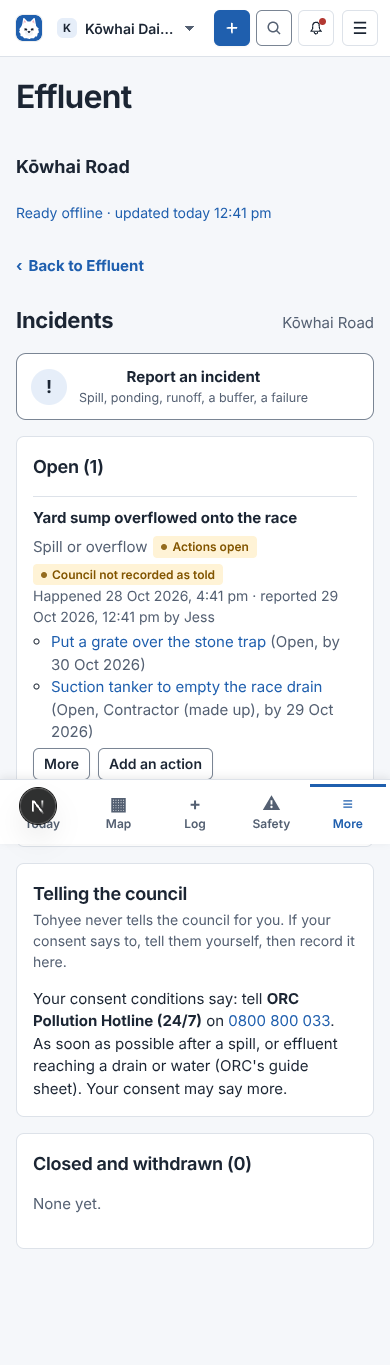
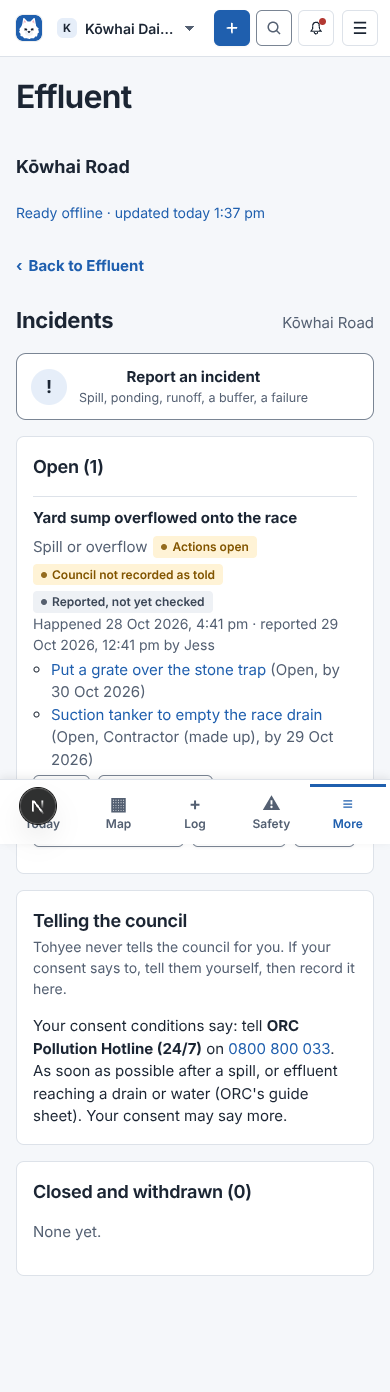
Effluent: records that say what's known (#491 for #487)
Incidents get "Checked it" (a bookkeeper or above, in person) kept beside the
reporter's account; the depth from settings is labelled an estimate and
positions phone GPS estimates, never a finding that effluent reached a
buffer; the council pack's summary starts with its scope and the count of
corrected and withdrawn records, and says the hashes don't show contents
are true or make records privileged; a fault report says Tohyee doesn't
message anyone. Decision 1099(e).

Claude-Session: https://claude.ai/code/session_01YaYVajMmm1vgDV4HpVCV6D

diff --git a/src/components/farm-effluent-care.tsx b/src/components/farm-effluent-care.tsx
@@ -176,7 +176,7 @@ function FaultForm({ organisationId, farm, system, onDone, onCancel }: Ctx & { s
         setError(null);
         try {
           const outcome = await submitThroughQueue(queue, { operationId, kind: "effluent.fault", label: `Fault: ${system.data.name}`, farmId: farm.id, farmName: farm.name, request: { method: "POST", path: "/api/farming/effluent/faults", body: { farmId: farm.id, systemId: system.recordId, what, outOfUse, files: photos.map((photo) => ({ id: photo.id })) }, refs: waitForFiles(photos, ["files"]) } });
-          onDone(`${outcomeText(outcome.state)}${outOfUse ? ` ${system.data.name} is out of use until it's released in Safety.` : ""}`);
+          onDone(`${outcomeText(outcome.state)}${outOfUse ? ` ${system.data.name} is out of use until it's released in Safety.` : ""} Tohyee doesn't message anyone: the action shows in Tohyee for whoever looks after it.`);
         } catch (caught) {
           setError(`Not saved: ${errorMessage(caught)}`);
         } finally {
@@ -508,7 +508,7 @@ const STATE_TONE: Record<IncidentView["state"], "neutral" | "amber" | "green"> =
 const STATE_LABEL: Record<IncidentView["state"], string> = { open: "Open", actions: "Actions open", closed: "Closed", withdrawn: "Withdrawn" };
 
 function IncidentRow({ organisationId, farm, incident, canClose, people, onSaved }: Ctx & { incident: IncidentView; canClose: boolean; people: Array<{ userId: string; name: string }>; onSaved: (text: string) => void }) {
-  const [open, setOpen] = useState<"more" | "told" | "close" | "action" | null>(null);
+  const [open, setOpen] = useState<"more" | "told" | "close" | "action" | "check" | null>(null);
   const data = incident.data;
   return (
     <li style={{ borderTop: "1px solid var(--border)", padding: "10px 0" }}>
@@ -518,10 +518,12 @@ function IncidentRow({ organisationId, farm, incident, canClose, people, onSaved
         <Badge tone={STATE_TONE[incident.state]}>{STATE_LABEL[incident.state]}</Badge>
         {data.reachedWater ? <Badge tone="red">Reached water or a drain</Badge> : null}
         {incident.tellCouncil ? <Badge tone="amber">Council not recorded as told</Badge> : null}
+        {incident.state !== "withdrawn" ? incident.checkedOnSite ? <Badge tone="blue">Checked</Badge> : <Badge>Reported, not yet checked</Badge> : null}
       </div>
       <div className={ui.muted} style={{ fontSize: "var(--text-sm)" }}>
         Happened {formatDateTime(data.occurredAt)} · reported {formatDateTime(incident.firstEnteredAt)} by {incident.firstEnteredByName || incident.firstEnteredByEmail}
       </div>
+      {data.checked ? <div>Checked: {data.checked.note}</div> : null}
       {data.councilTold ? (
         <div>
           Council told {formatDate(data.councilTold.on)} {COUNCIL_TOLD_HOW[data.councilTold.how]}
@@ -552,6 +554,11 @@ function IncidentRow({ organisationId, farm, incident, canClose, people, onSaved
                 We told the council
               </Button>
             ) : null}
+            {canClose && !data.checked ? (
+              <Button variant="secondary" size="small" onClick={() => setOpen(open === "check" ? null : "check")}>
+                Checked it
+              </Button>
+            ) : null}
             {canClose ? (
               <Button variant="secondary" size="small" onClick={() => setOpen(open === "close" ? null : "close")}>
                 Close
@@ -570,6 +577,7 @@ function IncidentRow({ organisationId, farm, incident, canClose, people, onSaved
         </div>
       ) : null}
       {open === "told" ? <CouncilToldForm organisationId={organisationId} incident={incident} onDone={() => { setOpen(null); onSaved("Recorded that the council was told."); }} /> : null}
+      {open === "check" ? <CheckedForm organisationId={organisationId} incident={incident} onDone={() => { setOpen(null); onSaved("Recorded what was found."); }} /> : null}
       {open === "close" ? <CloseForm organisationId={organisationId} incident={incident} onDone={() => { setOpen(null); onSaved("Closed."); }} /> : null}
       {open === "action" ? <AddActionForm organisationId={organisationId} incident={incident} people={people} onDone={() => { setOpen(null); onSaved("Action added."); }} /> : null}
     </li>
@@ -624,6 +632,23 @@ function CouncilToldForm({ organisationId, incident, onDone }: { organisationId:
         </Field>
       </div>
       <Button type="submit" disabled={busy}>
+        Save
+      </Button>
+    </form>
+  );
+}
+
+/** What was found when someone looked (#491): kept beside the reporter's account, not instead of it. */
+function CheckedForm({ organisationId, incident, onDone }: { organisationId: string; incident: IncidentView; onDone: () => void }) {
+  const [note, setNote] = useState("");
+  const { busy, error, run } = useRun();
+  return (
+    <form style={FORM} onSubmit={(event) => { event.preventDefault(); void run(() => api(`/api/farming/effluent/incidents/${incident.recordId}`, { method: "PATCH", body: { organisationId, step: "check", expectedVersion: incident.version, note } }), onDone); }}>
+      {error ? <Notice tone="error">{error}</Notice> : null}
+      <Field label="What you found when you checked" hint="The report stays as the reporter wrote it; this is kept beside it.">
+        <textarea rows={2} value={note} required maxLength={2000} onChange={(event) => setNote(event.target.value)} />
+      </Field>
+      <Button type="submit" disabled={busy || !note.trim()}>
         Save
       </Button>
     </form>
@@ -756,9 +781,10 @@ export function PackScreen({ organisationId, farm }: Ctx) {
           <ul style={{ margin: 0, paddingLeft: 18 }}>
             <li>A summary: the runs compared with the consent conditions as entered, in counts (it never says the farm complies), pond levels, days not applied, incidents.</li>
             <li>A map of the paddocks shaded by applications (applied-areas.svg).</li>
-            <li>Every run, pond reading, day not applied, check, fault, release, service, incident and action, each with its full history: who entered it and when (set by Tohyee).</li>
+            <li>Every run, pond reading, day not applied, check, fault, release, service, incident and action, each with its full history: who entered it and when (set by Tohyee), corrections with the earlier versions and why, withdrawn records marked.</li>
+            <li>Depth as entered (measured or declared) beside the estimate from the settings; positions and tractor areas are phone GPS estimates.</li>
             <li>Photos with the camera&apos;s time, the phone&apos;s time and where the phone said it was.</li>
-            <li>The history&apos;s numbers and hashes, and a small program (verify.mjs) that checks nothing was changed.</li>
+            <li>The history&apos;s numbers and hashes, and a small program (verify.mjs) that checks the records weren&apos;t changed after they were saved. It can&apos;t show that what was entered is true.</li>
           </ul>
           <p>
             The weekly copy off the farm can include the effluent records too: <Link href={safetyHref({ farmId: farm.id, screen: "records" })}>Safety › Records and settings</Link>.

diff --git a/src/lib/effluent/pack.ts b/src/lib/effluent/pack.ts
@@ -74,13 +74,13 @@ export async function loadCouncilPack(tx: OrgTx, input: { farmId: unknown; from:
   const incidents = care.incidents.filter((incident) => incident.change !== "withdrawn" && inRange(incident.data.occurredAt.slice(0, 10)));
   const deferrals = log.deferrals.filter((deferral) => deferral.change !== "withdrawn");
   const summary = [
-    `Farm: ${farmName}. Records from ${data.from} to ${data.to}.`,
+    `Scope: ${farmName}, effluent records entered or dated ${data.from} to ${data.to}, each with every version, and the effluent systems' Safety checks, faults and releases and the incidents' actions. Other safety records aren't included. Corrections: ${data.entries.filter((entry) => entry.change === "corrected").length} corrected versions (the earlier versions are kept); withdrawn as entered by mistake: ${data.entries.filter((entry) => entry.change === "withdrawn").length} (included, marked).`,
     consent ? `Consent conditions as entered: ${consent.title}${consent.consentNumber ? `, ${consent.consentNumber}` : ""}${consent.expiresOn ? `, expires ${consent.expiresOn}` : ""}.${consent.fromTemplate.length ? ` Some conditions are still as the starting template had them. ${CHECK_YOUR_CONSENT}` : ""}` : "No consent conditions entered, so nothing is compared with limits.",
     ...summaryLines(log.summary, consent),
     COMPARISON_NOTE,
     `Pond readings: ${readings.length}${levels.length ? `, from ${Math.min(...levels)} to ${Math.max(...levels)} mm on the gauge` : ""}; high readings: ${readings.filter((reading) => reading.state?.warning === "high").length}.`,
     `Days effluent wasn't applied: ${deferrals.length}${deferrals.length ? ` (${[...new Set(deferrals.map((deferral) => DEFERRAL_LABELS[deferral.data.reason]))].join(", ")})` : ""}.`,
-    `Incidents: ${incidents.length}${incidents.length ? ` (${incidents.map((incident) => `${INCIDENT_TYPE_LABELS[incident.data.type]}${incident.data.councilTold ? ", council told" : ""}${incident.data.closed ? ", closed" : ""}`).join("; ")})` : ""}.`,
+    `Incidents: ${incidents.length}${incidents.length ? ` (${incidents.map((incident) => `${INCIDENT_TYPE_LABELS[incident.data.type]}${incident.data.checked ? ", checked" : ", reported, not yet checked"}${incident.data.councilTold ? ", council told (as recorded)" : ""}${incident.data.closed ? ", closed" : ""}`).join("; ")})` : ""}.`,
     "Tohyee doesn't send this pack, or anything else, to the council.",
   ];
   // Applied areas: each paddock's applications in the range, and the positions recorded.
@@ -101,7 +101,7 @@ export async function loadCouncilPack(tx: OrgTx, input: { farmId: unknown; from:
   const names = new Map(shapes.rows.map((row) => [row.id, row.name]));
   summary.push(
     `Applications by paddock: ${[...counts.entries()].sort((a, b) => b[1] - a[1]).map(([id, count]) => `paddock ${names.get(id) ?? id}: ${count}`).join(", ") || "none"}.`,
-    `Depth: ${applications.filter((application) => application.data.depthEnteredMm).length} with depth as entered, ${applications.filter((application) => !application.data.depthEnteredMm && depthForComparison(application.data)).length} with depth worked out only.`,
+    `Depth: ${applications.filter((application) => application.data.depthEnteredMm).length} with depth as entered by the person (measured or declared), ${applications.filter((application) => !application.data.depthEnteredMm && depthForComparison(application.data)).length} with only an estimate from the system's settings. Tractor mode areas are phone GPS estimates.`,
   );
   return { data, summary, svg, farmName };
 }
@@ -124,7 +124,12 @@ What's here
 
 The summary counts the records against the consent conditions as entered in Tohyee.
 It doesn't say whether the farm complies: the consent and the council decide that.
-Depth is shown as entered by the person and as worked out from the system's settings.
+Depth is shown as entered by the person (measured or declared) and as an estimate from the
+system's settings, labelled. Positions and tractor mode areas are phone GPS estimates: a
+position near a waterway or buffer is not a finding that effluent reached it.
+Corrected records show every version, the earlier ones and why; withdrawn records are
+included and marked. The hashes show records weren't changed after they were saved; they
+don't show that what was entered is true, and don't make the records privileged.
 
 Effluent records are kept in the same history as the farm's safety records, so
 chain.json lists those entries too (numbers and hashes only, no details).

diff --git a/src/lib/effluent/care.ts b/src/lib/effluent/care.ts
@@ -168,7 +168,7 @@ export async function addIncidentAction(tx: OrgTx, incidentId: unknown, input: R
   return addAction(tx, { farmId: incident.farmId, title: input.title, assignedToUserId: input.assignedToUserId || null, assignedToName: input.assignedToUserId ? null : input.assignedToName || null, due: input.due || null, operationId: input.operationId }, members, { effluentIncidentId: incident.recordId });
 }
 
-const INCIDENT_STEPS = ["update", "council_told", "close", "reopen", "correct", "withdraw"] as const;
+const INCIDENT_STEPS = ["update", "check", "council_told", "close", "reopen", "correct", "withdraw"] as const;
 
 /**
  * A new version of an incident: "update" (details, photos), "council_told"
@@ -186,7 +186,12 @@ export async function changeIncident(tx: OrgTx, recordId: unknown, input: Record
   const data: IncidentData = { ...current.data, why: undefined };
   let change: SafetyChange = "updated";
   const manager = !tx.actor.userId || (tx.actor.role !== undefined && roleAtLeast(tx.actor.role, "bookkeeper"));
-  if (step === "council_told") {
+  if (step === "check") {
+    notAutomatic(tx, "Saying an incident was checked");
+    if (!manager) throw new ForbiddenError("Saying what was found when it was checked needs the bookkeeper role or higher.");
+    if (current.data.closed) throw new ValidationError("It's closed. Reopen it first.");
+    data.checked = { note: requireString(input.note, "What was found when it was checked", { maxLength: 2000 }) };
+  } else if (step === "council_told") {
     notAutomatic(tx, "Saying the council was told");
     data.councilTold = councilToldOf(input.councilTold);
   } else if (step === "close" || step === "reopen") {
@@ -228,7 +233,7 @@ export async function changeIncident(tx: OrgTx, recordId: unknown, input: Record
 
 // Reading --------------------------------------------------------------------------------------------
 
-export type IncidentView = CurrentRecord<IncidentData> & { actions: Array<CurrentRecord<ActionData> & { state: string }>; state: "open" | "actions" | "closed" | "withdrawn"; tellCouncil: { who: string; phone: string | null; when: string } | null };
+export type IncidentView = CurrentRecord<IncidentData> & { checkedOnSite: boolean; actions: Array<CurrentRecord<ActionData> & { state: string }>; state: "open" | "actions" | "closed" | "withdrawn"; tellCouncil: { who: string; phone: string | null; when: string } | null };
 export type SystemCare = SystemView & { nextService: string | null; nextWof: string | null; lastService: string | null; lastWof: string | null; services: Array<CurrentRecord<ServiceData>>; faults: Array<CurrentRecord<CheckData>> };
 
 export type EffluentCare = { systems: SystemCare[]; incidents: IncidentView[]; reminders: Reminder[]; canClose: boolean };
@@ -268,7 +273,7 @@ export async function effluentCare(tx: OrgTx, farmIdInput: unknown): Promise<Eff
         const own = actions.filter((action) => action.data.effluentIncidentId === incident.recordId).map((action) => ({ ...action, state: actionState(action, today) }));
         const state: IncidentView["state"] = incident.change === "withdrawn" ? "withdrawn" : incident.data.closed ? "closed" : own.some((action) => action.change !== "withdrawn" && !action.data.verified) ? "actions" : "open";
         const notice = consent?.data.notifyCouncil ?? null;
-        return { ...incident, actions: own, state, tellCouncil: notice && !incident.data.councilTold && incident.change !== "withdrawn" && !incident.data.closed ? notice : null };
+        return { ...incident, checkedOnSite: Boolean(incident.data.checked), actions: own, state, tellCouncil: notice && !incident.data.councilTold && incident.change !== "withdrawn" && !incident.data.closed ? notice : null };
       })
       .sort((a, b) => b.data.occurredAt.localeCompare(a.data.occurredAt)),
     reminders: effluentReminders({ systems, ponds: log.ponds, lastMoved: log.lastMoved, services, consent, usedToday, today, now: new Date().toISOString(), dayOf: (iso) => isoDateAt(new Date(iso)) }),

diff --git a/tests/integration/farm-effluent-care.test.ts b/tests/integration/farm-effluent-care.test.ts
@@ -126,16 +126,28 @@ describeWithDatabase("farm effluent care", () => {
     expect((await as(owner)((tx) => tx.query("select 1 from document_emails"))).rowCount).toBe(0);
   });
 
+  it("EF20a a report is the reporter's account; checking it is a bookkeeper's, in person, kept beside it (#491)", async () => {
+    let care = await as(worker)((tx) => effluentCare(tx, w.home));
+    let view = care.incidents.find((each) => each.recordId === w.incident)!;
+    expect(view.checkedOnSite).toBe(false);
+    await expect(as(worker)((tx) => changeIncident(tx, w.incident, { step: "check", expectedVersion: view.version, note: "Saw it" }))).rejects.toThrow(/bookkeeper/);
+    await expect(as(books, 'AI key "x"')((tx) => changeIncident(tx, w.incident, { step: "check", expectedVersion: view.version, note: "Saw it" }))).rejects.toThrow(/not an AI or app/);
+    await as(books)((tx) => changeIncident(tx, w.incident, { step: "check", expectedVersion: view.version, note: "Sump overflowed onto the race; drain blocked with a bale, nothing past it" }));
+    care = await as(worker)((tx) => effluentCare(tx, w.home));
+    view = care.incidents.find((each) => each.recordId === w.incident)!;
+    expect(view).toMatchObject({ checkedOnSite: true, data: { whatHappened: "Pump float stuck", checked: { note: expect.stringMatching(/^Sump overflowed/) } } });
+  });
+
   it("EF21 an incident closes only once its actions are checked and closed, by a bookkeeper or above in person", async () => {
-    await expect(as(worker)((tx) => changeIncident(tx, w.incident, { step: "close", expectedVersion: 2, why: "Done" }))).rejects.toThrow(/bookkeeper/);
-    await expect(as(books)((tx) => changeIncident(tx, w.incident, { step: "close", expectedVersion: 2, why: "Done" }))).rejects.toThrow(/Check and close its actions first/);
+    await expect(as(worker)((tx) => changeIncident(tx, w.incident, { step: "close", expectedVersion: 3, why: "Done" }))).rejects.toThrow(/bookkeeper/);
+    await expect(as(books)((tx) => changeIncident(tx, w.incident, { step: "close", expectedVersion: 3, why: "Done" }))).rejects.toThrow(/Check and close its actions first/);
     const actions = (await as(books)((tx) => effluentCare(tx, w.home))).incidents.find((each) => each.recordId === w.incident)!.actions;
     for (const action of actions) {
       await as(books)((tx) => changeAction(tx, action.recordId, { step: "done", expectedVersion: action.version, note: "Done" }, members));
       await as(owner)((tx) => changeAction(tx, action.recordId, { step: "verify", expectedVersion: action.version + 1, note: "Looked at it" }, members));
     }
-    await expect(as(books, 'AI key "x"')((tx) => changeIncident(tx, w.incident, { step: "close", expectedVersion: 2, why: "Done" }))).rejects.toThrow(/not an AI or app/);
-    const closed = await as(books)((tx) => changeIncident(tx, w.incident, { step: "close", expectedVersion: 2, why: "Float switch replaced; drain clean next morning" }));
+    await expect(as(books, 'AI key "x"')((tx) => changeIncident(tx, w.incident, { step: "close", expectedVersion: 3, why: "Done" }))).rejects.toThrow(/not an AI or app/);
+    const closed = await as(books)((tx) => changeIncident(tx, w.incident, { step: "close", expectedVersion: 3, why: "Float switch replaced; drain clean next morning" }));
     expect(closed.data.closed).toEqual({ why: "Float switch replaced; drain clean next morning" });
     expect((await as(owner)((tx) => checkSafetyHistory(tx))).problems).toEqual([]);
   });

diff --git a/src/lib/effluent/rules.ts b/src/lib/effluent/rules.ts
@@ -261,12 +261,12 @@ export function hasFlags(flags: ApplicationFlags): boolean {
 /** The flags in words, neutral (decision 1086). */
 export function flagTexts(flags: ApplicationFlags, consent: ConsentData | null, paddockNames: ReadonlyMap<string, string> = new Map()): string[] {
   const texts: string[] = [];
-  if (flags.overDepth) texts.push(`Deeper than the most depth entered for the consent (${consent?.maxDepthMm} mm)`);
+  if (flags.overDepth) texts.push(`Depth (as entered, else the estimate from the settings) is over the most depth entered for the consent (${consent?.maxDepthMm} mm)`);
   if (flags.overRate) texts.push(`The system's rate is over the most rate entered for the consent (${consent?.maxRateMmPerHour} mm an hour)`);
   for (const each of flags.tooSoon) texts.push(`Paddock ${paddockNames.get(each.paddockId) ?? each.paddockId} again after ${each.days} day${each.days === 1 ? "" : "s"} (the consent entered says at least ${consent?.returnPeriodDays})`);
   if (flags.ponding === "ponding") texts.push("Ponding recorded");
   if (flags.ponding === "runoff") texts.push("Runoff recorded");
-  for (const each of flags.inBuffer) texts.push(`A position ${each.metres} m from ${each.name} (buffer ${each.bufferM} m)`);
+  for (const each of flags.inBuffer) texts.push(`A position recorded from the phone's GPS was about ${each.metres} m from ${each.name}, inside its ${each.bufferM} m buffer on the map. It's a phone estimate, not a finding that effluent reached it`);
   if (flags.usedWhileOutOfUse) texts.push("Recorded while the system was out of use in Safety");
   if (flags.noPondingCheck) texts.push("Stopped with no ponding check recorded");
   return texts;
@@ -302,7 +302,7 @@ export function summaryLines(summary: LimitsSummary, consent: ConsentData | null
   lines.push(consent?.returnPeriodDays ? `Applications to a paddock sooner than ${consent.returnPeriodDays} days after the last: ${summary.tooSoon}` : "Days between applications: not entered for the consent, so not compared");
   lines.push(`Applications with ponding recorded: ${summary.ponding}`);
   lines.push(`Applications with runoff recorded: ${summary.runoff}`);
-  lines.push(`Applications with a position inside a buffer on the map: ${summary.inBuffer}`);
+  lines.push(`Applications with a recorded position (phone GPS, an estimate) inside a buffer on the map: ${summary.inBuffer}`);
   lines.push(`Applications recorded while the system was out of use: ${summary.whileOutOfUse}`);
   lines.push(`Applications stopped with no ponding check: ${summary.noPondingCheck}`);
   lines.push(`Applications with no depth entered or worked out: ${summary.noDepth}`);

diff --git a/src/components/farm-effluent-log.tsx b/src/components/farm-effluent-log.tsx
@@ -183,7 +183,7 @@ function RunRow({ organisationId, application, log, names }: { organisationId: s
         {hasFlags(application.flags) ? <Badge tone="amber">{flags.length} to look at</Badge> : null}
       </div>
       <div style={{ overflowWrap: "anywhere" }}>
-        {[data.paddockIds.length ? `Paddock${data.paddockIds.length === 1 ? "" : "s"} ${data.paddockIds.map((id) => names.get(id) ?? id).join(", ")}` : null, data.depthEnteredMm ? `${data.depthEnteredMm} mm as entered` : null, data.depthWorkedOut ? `${data.depthWorkedOut.mm} mm worked out` : null, data.ponding ? PONDING_LABELS[data.ponding.result] : null, data.loads ? `${data.loads} loads` : null].filter(Boolean).join(" · ")}
+        {[data.paddockIds.length ? `Paddock${data.paddockIds.length === 1 ? "" : "s"} ${data.paddockIds.map((id) => names.get(id) ?? id).join(", ")}` : null, data.depthEnteredMm ? `${data.depthEnteredMm} mm as entered` : null, data.depthWorkedOut ? `${data.depthWorkedOut.mm} mm estimated from the settings` : null, data.ponding ? PONDING_LABELS[data.ponding.result] : null, data.loads ? `${data.loads} loads` : null].filter(Boolean).join(" · ")}
       </div>
       {flags.length ? (
         <ul style={{ margin: "4px 0", paddingLeft: 18 }}>
@@ -197,7 +197,7 @@ function RunRow({ organisationId, application, log, names }: { organisationId: s
       </Button>
       {open ? (
         <div>
-          {data.depthWorkedOut ? <p className={ui.muted}>Worked out: {data.depthWorkedOut.how}.</p> : null}
+          {data.depthWorkedOut ? <p className={ui.muted}>Estimate from the system&apos;s settings: {data.depthWorkedOut.how}. The depth as entered is what the person measured or said.</p> : null}
           {data.positions.length ? <p>Positions: {data.positions.map((position) => `${position.label ?? "set"} ${time(position.movedAt)}${position.paddockId ? ` (paddock ${names.get(position.paddockId) ?? position.paddockId})` : ""}`).join("; ")}</p> : null}
           {data.ponding?.note ? <p>Ponding check: {data.ponding.note}</p> : null}
           {data.weather || data.soil ? <p>{[data.weather ? `Weather: ${data.weather}` : null, data.soil ? `Soil: ${data.soil}` : null].filter(Boolean).join(" · ")}</p> : null}

diff --git a/src/lib/safety/shared.ts b/src/lib/safety/shared.ts
@@ -354,6 +354,7 @@ const FIELD_LABELS: Record<string, string> = {
   incidentId: "Effluent incident",
   effluentIncidentId: "Effluent incident",
   councilTold: "Council told",
+  checked: "Checked: what was found",
 };
 
 /** A short name for a record, for lists and the pack. */
@@ -382,7 +383,7 @@ function valueText(key: string, value: unknown, paddockNames: ReadonlyMap<string
     const notice = value as WorkSafeNotice;
     return `${notice.on}, by ${notice.how}${notice.reference ? `, reference ${notice.reference}` : ""}`;
   }
-  if ((key === "closed" || key === "verified") && value && typeof value === "object") return (value as { why?: string; note?: string | null }).why ?? (value as { note?: string | null }).note ?? "Yes";
+  if ((key === "closed" || key === "verified" || key === "checked") && value && typeof value === "object") return (value as { why?: string; note?: string | null }).why ?? (value as { note?: string | null }).note ?? "Yes";
   if (key === "done" && value && typeof value === "object") return (value as { note: string }).note;
   if (key === "answers" && Array.isArray(value)) {
     return value.map((answer: { text?: string; result?: string; note?: string | null }) => `${answer.text}: ${answer.result === "ok" ? "OK" : answer.result === "na" ? "n/a" : `FAULT${answer.note ? ` (${answer.note})` : ""}`}`).join("; ") || null;

diff --git a/tests/unit/effluent-log-rules.test.ts b/tests/unit/effluent-log-rules.test.ts
@@ -1,5 +1,5 @@
 import { describe, expect, it } from "vitest";
-import { buffersBreached, COMPARISON_NOTE, hoursBetween, metresBetween, pondState, positionHours, summaryLines, workedOutDepth } from "@/lib/effluent/rules";
+import { buffersBreached, COMPARISON_NOTE, flagTexts, hoursBetween, metresBetween, pondState, positionHours, summaryLines, workedOutDepth } from "@/lib/effluent/rules";
 import { EMPTY_SETTINGS } from "@/lib/effluent/shared";
 
 /** Effluent's sums and comparisons (#487, decisions 1080-1086). */
@@ -40,6 +40,11 @@ describe("effluent log rules", () => {
     expect(buffersBreached([170.5, -45.8995], zones, null)).toEqual([]);
     expect(buffersBreached([170.6005, -45.9005], zones, null).map((each) => each.metres)).toEqual([0]);
     expect(buffersBreached([170.6012, -45.9005], zones, null).map((each) => each.name)).toEqual(["Creek"]);
+  });
+
+  it("a position near a buffer is a phone estimate, not a finding (#491)", () => {
+    const texts = flagTexts({ overDepth: false, overRate: false, tooSoon: [], ponding: null, inBuffer: [{ zoneId: "z", name: "Creek", bufferM: 20, metres: 12 }], usedWhileOutOfUse: false, noPondingCheck: false }, null);
+    expect(texts[0]).toMatch(/phone's GPS.*not a finding that effluent reached it/);
   });
 
   it("the summary is counts against what was entered, never a verdict", () => {

diff --git a/tests/integration/farm-effluent-pack.test.ts b/tests/integration/farm-effluent-pack.test.ts
@@ -85,6 +85,10 @@ describeWithDatabase("farm effluent council pack", () => {
     expect(pack.summary.some((line) => line.startsWith("Pond readings: 1, from 1850 to 1850 mm"))).toBe(true);
     expect(pack.summary.join("\n")).toMatch(/Tohyee doesn't send this pack/);
     expect(pack.summary.join("\n")).not.toMatch(/\bcomplies with\b|\bcompliant\b|\bin breach\b/i);
+    // Scope and corrections are said; positions and areas are estimates, never a finding (#491).
+    expect(pack.summary[0]).toMatch(/^Scope: Home farm, effluent records entered or dated 2020-01-01 to 2099-12-31.*Corrections: \d+ corrected versions/);
+    expect(pack.summary.join("\n")).toMatch(/recorded position \(phone GPS, an estimate\)/);
+    expect(pack.summary.join("\n")).toMatch(/Sump overflow|Spill or overflow, reported, not yet checked/);
     expect(pack.svg).toContain("1 (1)");
     expect(pack.svg).toContain("Creek");
     const rendered = await renderCouncilPack(pack);

diff --git a/src/lib/effluent/shared.ts b/src/lib/effluent/shared.ts
@@ -408,6 +408,11 @@ export type IncidentData = {
   reachedWater: boolean;
   files: Array<{ id: string; name: string; sha256: string }>;
   councilTold: CouncilTold | null;
+  /**
+   * Someone (a bookkeeper or above, in person) looked at it and says what they found (#491):
+   * the report is the reporter's account; this is the check of it. Absent on older records.
+   */
+  checked?: { note: string } | null;
   closed: { why: string } | null;
   why?: string | null;
 };

diff --git a/docs/FARM-EFFLUENT.md b/docs/FARM-EFFLUENT.md
@@ -201,6 +201,35 @@ More › Effluent › **Checks, faults and servicing** and **Incidents**.
   worked area (a phone GPS estimate) fill the run; loads × tank ÷ area gives
   the depth worked out.
 
+## Records that say what's known (#491)
+
+Following #491 (William's review of how records read after an incident):
+
+- **Every effluent record is versioned.** Each change is a new version with
+  its full details (so the old and new values are both there), who made it
+  and the time Tohyee saved it; a correction says what was wrong; a record
+  entered by mistake is withdrawn, kept and marked. Nothing is overwritten.
+- **Reported, checked, done, verified.** An incident is the reporter's
+  account. **Checked it** (a bookkeeper or above, in person) records what was
+  found, beside the report, not instead of it. Its actions are marked done
+  and then checked and closed (Safety's workflow). A reported fault with
+  "don't use it" takes the system out of use straight away; only a release
+  in Safety puts it back.
+- **Entered, estimated, measured.** Depth as entered is what the person
+  measured or said; the depth from the system's settings is labelled an
+  estimate. Positions and tractor areas are phone GPS estimates. A position
+  near a waterway or inside a buffer is shown as that, never as a finding
+  that effluent reached it.
+- **Saved isn't told.** Work on the device shows Saved on this device or
+  Waiting to send until Tohyee has it; an action is assigned in Tohyee, and
+  Tohyee doesn't message anyone or say anyone has read it. "Council told" is
+  only what a person records after telling them.
+- **Exports say their scope.** The council pack's summary starts with its
+  scope (farm, dates, what's included and not), how many versions are
+  corrections and how many records were withdrawn. The hashes show records
+  weren't changed after they were saved; they don't show the contents are
+  true, and the records aren't privileged because of them.
+
 ## Worked checks (tests)
 
 `tests/integration/farm-effluent-setup.test.ts`:
@@ -254,6 +283,8 @@ More › Effluent › **Checks, faults and servicing** and **Incidents**.
 - **EF20** an incident with actions and their people; the council prompt
   comes from the consent; "council told" is a person's, never an app's;
   nothing is emailed.
+- **EF20a** checking an incident is a bookkeeper's, in person, kept beside
+  the reporter's account (#491).
 - **EF21** closing needs its actions checked and closed, by a bookkeeper or
   above in person; the history checks out.
 - **EF22** farm staff report on their farm only; corrections are the

diff --git a/docs/DECISIONS.md b/docs/DECISIONS.md
@@ -10276,4 +10276,11 @@ docs/FARM-EFFLUENT.md. Not yet reviewed by Jess.
       (d) Tractor mode has an "Effluent (tanker or spreader)" operation
       (migration 0201). A tanker run can name a tractor job on the farm: its
       paddocks, times and worked area fill the run unless given.
+      (e) Following #491: an incident's **Checked it** (bookkeeper or above,
+      in person) records what was found beside the reporter's account; the
+      depth from settings is labelled an estimate and positions phone GPS
+      estimates, a position in a buffer is "not a finding that effluent
+      reached it"; the council pack's summary starts with its scope and the
+      count of corrected and withdrawn records; and the pack says the hashes
+      don't show the contents are true or make them privileged.
 
